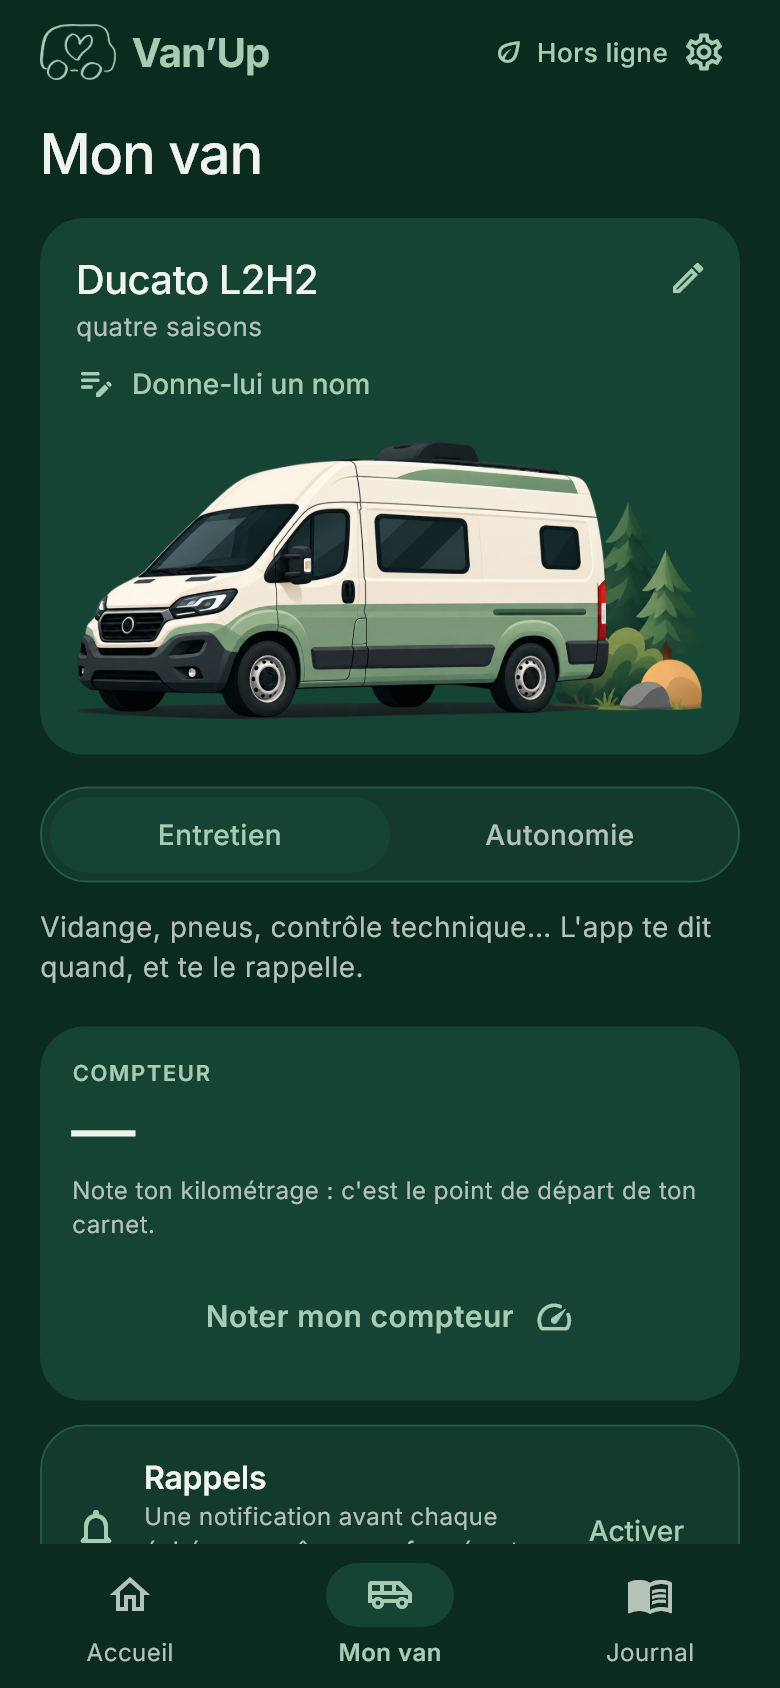
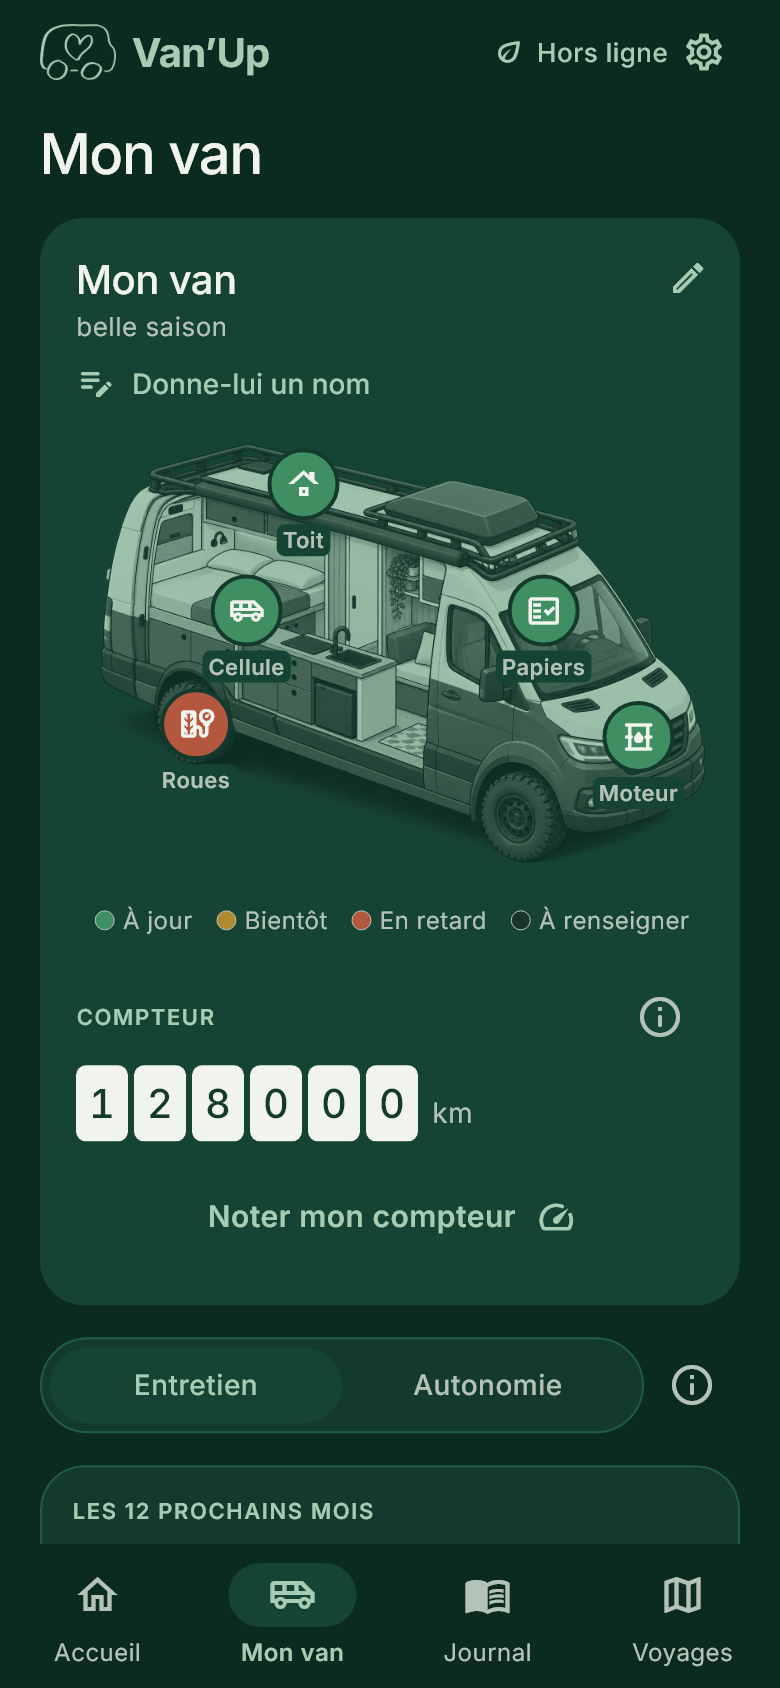
Actualise la page : le Journal, Mon van en dessins, l'essentiel hors ligne
La page suit l'app du 24 octobre. Une sixième étape, « Compter » : le
Journal en trois parties, qui doit quoi au centime, et « Scanner un
ticket » marqué Premium. « Vivre à bord » montre Mon van en schéma (une
pastille par zone) et le widget Android. Gaston présente l'app à
l'arrivée, sans question.

« Hors ligne » devient « l'essentiel hors ligne » : le van partagé, les
rappels officiels et les annonces demandent du réseau. La promesse
« Sans compte, sans pub » dit aussi les statistiques d'usage, sans nom
ni montant, qui se coupent dans les paramètres.

diff --git a/index.html b/index.html
@@ -4,13 +4,13 @@
 <meta charset="utf-8">
 <meta name="viewport" content="width=device-width, initial-scale=1, viewport-fit=cover">
 <title>Van'Up · ton van, de l'idée à la route</title>
-<meta name="description" content="Van'Up, l'application des vanlifers, sur Android et iPhone : choisir son van d'occasion, chiffrer l'aménagement, le construire étape par étape, puis partir sur les routes d'Europe. En français, en anglais et en allemand, hors ligne, sans compte.">
+<meta name="description" content="Van'Up, l'application des vanlifers, sur Android et iPhone : choisir son van d'occasion, chiffrer l'aménagement, le construire étape par étape, puis partir sur les routes d'Europe et tenir les comptes à plusieurs. En français, en anglais et en allemand, l'essentiel hors ligne, sans compte.">
 <meta name="theme-color" content="#0B2A20">
 <!-- Aperçu du lien quand on le partage (Instagram, WhatsApp, Messenger…). -->
 <meta property="og:type" content="website">
 <meta property="og:url" content="https://shayammy1.github.io/">
 <meta property="og:title" content="Van'Up · ton van, de l'idée à la route">
-<meta property="og:description" content="Choisir son van, chiffrer l'aménagement, le construire, partir. Une seule app de vanlife, en trois langues et hors ligne.">
+<meta property="og:description" content="Choisir son van, chiffrer l'aménagement, le construire, partir. Une seule app de vanlife, en trois langues, dont l'essentiel marche sans réseau.">
 <meta property="og:image" content="https://shayammy1.github.io/img/apercu.png">
 <meta property="og:image:width" content="1200">
 <meta property="og:image:height" content="630">
@@ -204,6 +204,11 @@ section { padding-block: 5rem; }
   font-variant-numeric: tabular-nums;
 }
 .quote b { display: block; }
+.tag {
+  display: inline-block; margin-left: .3rem; padding: .05rem .5rem; border-radius: 999px;
+  background: var(--sand); color: var(--sand-ink); font-size: .75rem; font-weight: 600;
+  vertical-align: .1em;
+}
 .quote span { color: var(--muted); font-size: .86rem; }
 
 /* Gaston */
@@ -316,7 +321,7 @@ footer .legal b { color: var(--ink); font-weight: 600; }
       <div class="reveal">
         <p class="eyebrow">Bientôt sur Android et iPhone · avant-première ouverte</p>
         <h1>Ton van, de l'idée <span class="hand">à la route.</span></h1>
-        <p class="lead">Van'Up t'aide à choisir le bon van d'occasion, à chiffrer son aménagement, à le construire étape par étape, puis à partir sur les routes d'Europe. Une seule app, en français, en anglais et en allemand, qui marche même sans réseau.</p>
+        <p class="lead">Van'Up t'aide à choisir le bon van d'occasion, à chiffrer son aménagement, à le construire étape par étape, puis à partir sur les routes d'Europe. Une seule app, en français, en anglais et en allemand, dont l'essentiel marche même sans réseau.</p>
         <div class="cta">
           <a class="btn btn-main" href="#createurs">Rejoindre l'avant-première</a>
           <a class="btn btn-ghost" href="#route">Découvrir l'app</a>
@@ -324,7 +329,7 @@ footer .legal b { color: var(--ink); font-weight: 600; }
         <ul class="facts">
           <li>Android et iPhone</li>
           <li>Français, English, Deutsch</li>
-          <li>Hors ligne</li>
+          <li>L'essentiel hors ligne</li>
           <li>Sans compte</li>
         </ul>
       </div>
@@ -355,8 +360,8 @@ footer .legal b { color: var(--ink); font-weight: 600; }
   <section id="route">
     <div class="wrap">
       <p class="eyebrow">L'app</p>
-      <h2 class="section-title">Cinq étapes, une seule app</h2>
-      <p class="section-intro">La vanlife ne commence pas sur la route : elle commence devant une annonce, un devis, une tôle à isoler. Van'Up t'accompagne à chaque étape.</p>
+      <h2 class="section-title">Six étapes, une seule app</h2>
+      <p class="section-intro">La vanlife ne commence pas sur la route : elle commence devant une annonce, un devis, une tôle à isoler. Van'Up t'accompagne à chaque étape, jusqu'aux comptes entre amis.</p>
 
       <div class="road">
         <article class="stop reveal">
@@ -432,15 +437,32 @@ footer .legal b { color: var(--ink); font-weight: 600; }
           <div>
             <p class="kicker">Vivre à bord</p>
             <h3>L'entretien et l'autonomie, même au fond d'une vallée</h3>
-            <p>Une fois sur la route, Van'Up suit ce qui doit l'être. Elle sert aussi à qui a déjà un van aménagé.</p>
+            <p>Une fois sur la route, Van'Up suit ce qui doit l'être, en dessins plutôt qu'en tableaux. Elle sert aussi à qui a déjà un van aménagé.</p>
             <ul class="points">
-              <li><span>Un carnet d'entretien selon ton équipement, chaque intervalle avec sa source, et des rappels sur ton téléphone.</span></li>
-              <li><span>Eau, batterie, gaz : l'app apprend ta consommation et te dit combien de jours il te reste.</span></li>
-              <li><span>Tes dépenses, chantier et route, comparées au budget prévu.</span></li>
-              <li><span>À deux dans le van ? Partage le même van, le même projet et les mêmes dépenses.</span></li>
+              <li><span>Ton van en schéma : une pastille par zone (moteur, roues, papiers, toit, cellule), verte, ambre ou rouge selon son entretien.</span></li>
+              <li><span>Un carnet d'entretien selon ton équipement, chaque intervalle avec sa source, les douze prochains mois d'un coup d'œil, et des rappels sur ton téléphone.</span></li>
+              <li><span>Eau, batterie, gaz : chaque réserve dessinée à son niveau. L'app apprend ta consommation et te dit combien de jours il te reste.</span></li>
+              <li><span>Sur Android, un widget sur ton écran d'accueil : « plein » ou « vide » d'un toucher, sans ouvrir l'app.</span></li>
             </ul>
           </div>
-          <img class="phone" src="img/monvan.png" width="780" height="1688" loading="lazy" alt="Mon van : la carte du van, puis l'entretien avec le compteur et les rappels.">
+          <img class="phone" src="img/monvan.png" width="780" height="1688" loading="lazy" alt="Mon van : le van dessiné en ton vert, une pastille par zone (toit, cellule, papiers et moteur à jour, roues en retard), la légende des couleurs et le compteur à 128 000 km.">
+        </article>
+
+        <article class="stop reveal" id="comptes">
+          <span class="marker" aria-hidden="true">6</span>
+          <div>
+            <p class="kicker">Compter</p>
+            <h3>Les comptes du van, à deux ou à plusieurs</h3>
+            <p>Chaque dépense notée en quelques secondes, rangée en trois parties : l'aménagement, les réparations, et les dépenses communes de la route.</p>
+            <ul class="points">
+              <li><span>Qui a payé, pour qui, et qui doit quoi, au centime près, avec le moins de virements possible.</span></li>
+              <li><span>L'aménagement comparé au budget prévu par ton chiffrage.</span></li>
+              <li><span>À deux dans le van ? Partage le même van, le même projet et les mêmes dépenses.</span></li>
+              <li><span>« Scanner un ticket » : le téléphone le lit, même sans réseau, et prépare la dépense : total, date, commerce. Tu vérifies, tu enregistres. <span class="tag">Premium</span></span></li>
+            </ul>
+            <div class="quote"><b>Léa → Toi : 24,45 €</b><span>Un plein, une aire, des courses et un péage à deux : un seul virement pour être quittes</span></div>
+          </div>
+          <img class="phone" src="img/journal.png" width="780" height="1688" loading="lazy" alt="Le Journal : 646 € en octobre, une barre partagée entre aménagement, réparations et dépenses communes, puis « Qui doit quoi » : Léa doit 24,45 € pour être quittes.">
         </article>
       </div>
     </div>
@@ -452,7 +474,7 @@ footer .legal b { color: var(--ink); font-weight: 600; }
         <img src="img/gaston.png" width="720" height="533" loading="lazy" alt="Gaston, un petit fourgon crème et vert aux grands yeux, souriant.">
         <div>
           <h2>Gaston, ton copilote</h2>
-          <p>La mascotte de Van'Up te fait visiter l'app, et glisse un mot au bon moment : quand un choix a un revers, ou quand une règle change à la frontière. Et sur chaque itinéraire, ses petits secrets : ce qu'on n'apprend d'habitude qu'une fois sur place.</p>
+          <p>La mascotte de Van'Up te présente l'app à ton arrivée, en trois écrans et sans une seule question, puis glisse un mot au bon moment : quand un choix a un revers, ou quand une règle change à la frontière. Et sur chaque itinéraire, ses petits secrets : ce qu'on n'apprend d'habitude qu'une fois sur place.</p>
           <div class="bubbles">
             <p class="bubble">« Pas de panique : un kilométrage élevé n'est pas un problème en soi. Un moteur réputé fiable et bien entretenu roule encore longtemps après 150 000 km. »<small>Trouver mon van</small></p>
             <p class="bubble">« Mieux vaut une gaine vide de trop qu'une paroi à rouvrir. »<small>Construire mon van</small></p>
@@ -492,12 +514,12 @@ footer .legal b { color: var(--ink); font-weight: 600; }
         <div class="promise reveal">
           <svg viewBox="0 0 24 24" fill="none" stroke="currentColor" stroke-width="2" stroke-linecap="round" stroke-linejoin="round" aria-hidden="true"><rect x="5" y="11" width="14" height="10" rx="2"/><path d="M8 11V7a4 4 0 0 1 8 0v4"/></svg>
           <h3>Sans compte, sans pub</h3>
-          <p>Tes données restent sur ton téléphone. Le compte ne sert qu'à partager ton van.</p>
+          <p>Tes données restent sur ton téléphone. Le compte ne sert qu'à partager ton van. Seules des statistiques d'usage, sans nom ni montant, nous aident à améliorer l'app, et elles se coupent dans les paramètres.</p>
         </div>
         <div class="promise reveal">
           <svg viewBox="0 0 24 24" fill="none" stroke="currentColor" stroke-width="2" stroke-linecap="round" stroke-linejoin="round" aria-hidden="true"><path d="M12 21s-7-4.5-7-11a4 4 0 0 1 7-2.6A4 4 0 0 1 19 10c0 6.5-7 11-7 11z"/></svg>
           <h3>L'essentiel en gratuit</h3>
-          <p>Choisir ton van, chiffrer ton projet, suivre ton entretien : sans payer. Un Premium pour aller plus loin.</p>
+          <p>Choisir ton van, chiffrer ton projet, suivre ton entretien, tenir tes comptes : sans payer. Un Premium pour aller plus loin.</p>
         </div>
       </div>
     </div>
